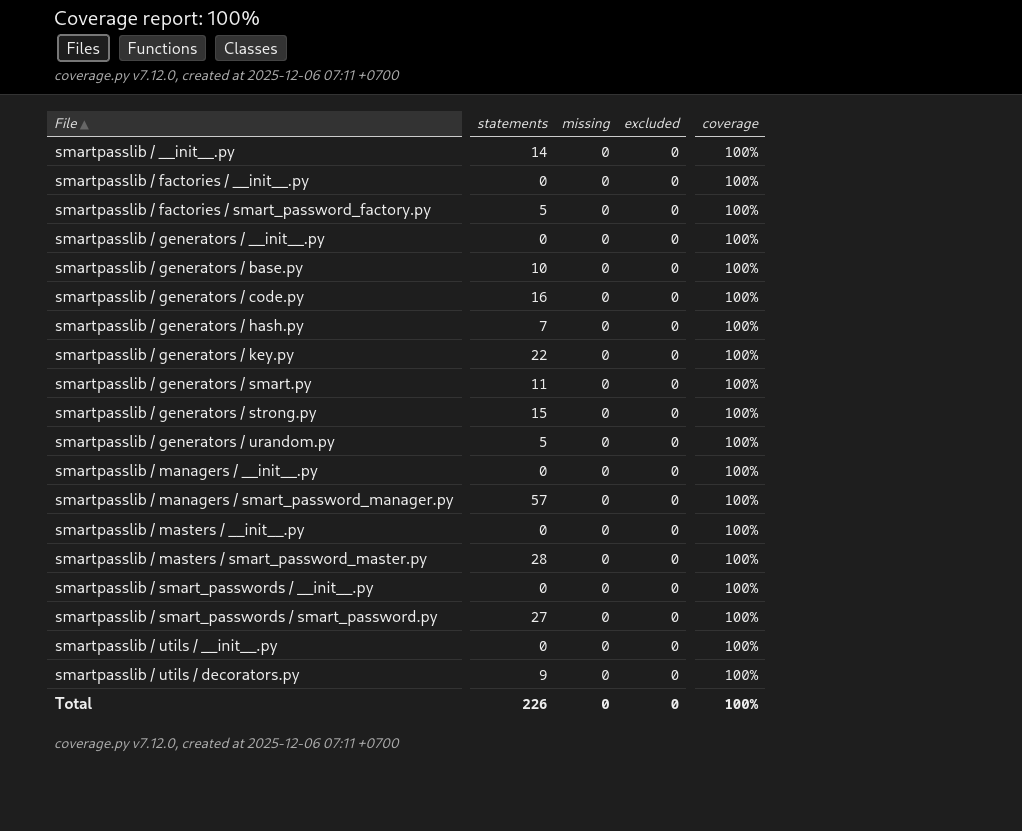
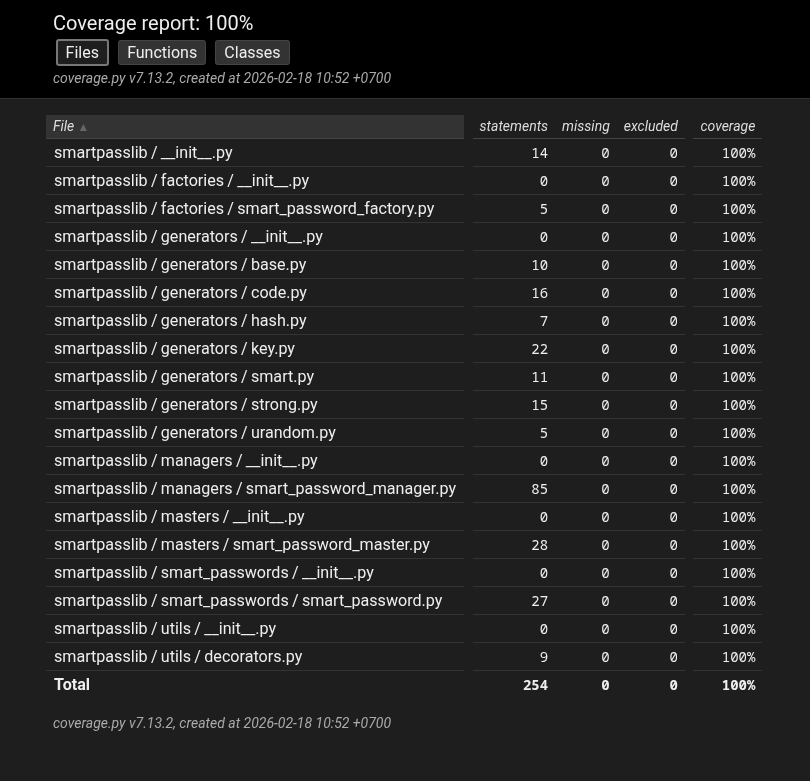
test: add 100% coverage
- Add tests for default config path (~/.config/...)
- Add tests for legacy file migration from ~/.cases.json
- Add tests for migration error handling
- Fix KeyError message format in delete test
- Achieve 100% test coverage

Changed region(s): [[0.0, 0.0, 1.0, 0.9526], [0.8642, 0.1536, 0.9259, 0.8912], [0.4938, 0.8297, 0.5556, 0.8604]]

diff --git a/tests/test_managers/test_manager.py b/tests/test_managers/test_manager.py
@@ -1,4 +1,7 @@
 # Copyright (©) 2026, Alexander Suvorov. All rights reserved.
+import json
+from pathlib import Path
+
 import pytest
 
 from smartpasslib import SmartPassword
@@ -36,7 +39,7 @@ class TestSmartPasswordManager:
 
     def test_delete_nonexistent_password(self, temp_file):
         manager = SmartPasswordManager(filename=temp_file)
-        with pytest.raises(KeyError, match="Public Key not found."):
+        with pytest.raises(KeyError, match="Public key not found: nonexistent_key"):
             manager.delete_smart_password("nonexistent_key")
 
     def test_get_nonexistent_password(self, temp_file):
@@ -98,11 +101,11 @@ class TestSmartPasswordManager:
         assert manager.update_smart_password(test_password.public_key, description="Updated Description") is True
         updated = manager.get_smart_password(test_password.public_key)
         assert updated.description == "Updated Description"
-        assert updated.length == test_password.length  # Length unchanged
+        assert updated.length == test_password.length
 
         assert manager.update_smart_password(test_password.public_key, length=20) is True
         updated = manager.get_smart_password(test_password.public_key)
-        assert updated.description == "Updated Description"  # Description unchanged
+        assert updated.description == "Updated Description"
         assert updated.length == 20
 
         assert manager.update_smart_password(
@@ -178,4 +181,149 @@ class TestSmartPasswordManager:
         )
 
         updated = manager.get_smart_password(test_password.public_key)
-        assert updated.public_key == original_public_key  # Public key unchanged
+        assert updated.public_key == original_public_key
+
+    def test_file_path_property(self, temp_file):
+        manager = SmartPasswordManager(filename=temp_file)
+        assert manager.file_path == temp_file
+
+    def test_generate_base_password_static(self):
+        pwd1 = SmartPasswordManager.generate_base_password()
+        pwd2 = SmartPasswordManager.generate_base_password(20)
+        assert len(pwd1) == 12
+        assert len(pwd2) == 20
+        assert isinstance(pwd1, str)
+        assert isinstance(pwd2, str)
+
+    def test_generate_smart_password_class_method(self, test_secret):
+        pwd1 = SmartPasswordManager.generate_smart_password(test_secret)
+        pwd2 = SmartPasswordManager.generate_smart_password(test_secret, 20)
+        assert len(pwd1) == 12
+        assert len(pwd2) == 20
+        assert isinstance(pwd1, str)
+        assert isinstance(pwd2, str)
+
+    def test_generate_public_key_class_method(self, test_secret):
+        key = SmartPasswordManager.generate_public_key(test_secret)
+        assert isinstance(key, str)
+        assert len(key) > 0
+
+    def test_check_public_key_class_method(self, test_secret):
+        key = SmartPasswordManager.generate_public_key(test_secret)
+        assert SmartPasswordManager.check_public_key(test_secret, key) is True
+        assert SmartPasswordManager.check_public_key("wrong", key) is False
+
+    def test_passwords_property_returns_dict(self, temp_file, test_password):
+        manager = SmartPasswordManager(filename=temp_file)
+        manager.add_smart_password(test_password)
+        assert isinstance(manager.passwords, dict)
+        assert len(manager.passwords) == 1
+
+    def test_load_data_corrupted_file(self, temp_file):
+        with open(temp_file, 'w') as f:
+            f.write("this is not json")
+
+        import warnings
+        with warnings.catch_warnings():
+            warnings.simplefilter("ignore")
+            manager = SmartPasswordManager(filename=temp_file)
+
+        assert manager.password_count == 0
+        assert isinstance(manager.smart_passwords, dict)
+
+    def test_write_data_permission_error(self, temp_file, monkeypatch, test_password):
+
+        def mock_open(*args, **kwargs):
+            raise IOError("Permission denied")
+
+        monkeypatch.setattr("builtins.open", mock_open)
+
+        import warnings
+        with warnings.catch_warnings():
+            warnings.simplefilter("ignore")
+            manager = SmartPasswordManager(filename=temp_file)
+            manager.add_smart_password(test_password)
+
+        assert test_password.public_key in manager.smart_passwords
+        assert manager.get_smart_password(test_password.public_key) == test_password
+
+    def test_default_config_path_creation(self, mock_home):
+        manager = SmartPasswordManager()
+        expected_path = str(mock_home / '.config' / 'smart_password_manager' / 'passwords.json')
+        assert manager.file_path == expected_path
+        assert Path(expected_path).parent.exists()
+
+    def test_migration_from_old_file(self, mock_home):
+        old_file = mock_home / '.cases.json'
+        test_data = {
+            "test_key": {
+                "public_key": "test_key",
+                "description": "test_service",
+                "length": 12
+            }
+        }
+        old_file.write_text(json.dumps(test_data))
+
+        manager = SmartPasswordManager()
+
+        new_file = Path(manager.file_path)
+        assert new_file.exists()
+
+        assert (mock_home / '.cases.json.bak').exists()
+        assert not old_file.exists()
+
+        assert len(manager.smart_passwords) == 1
+        assert "test_key" in manager.smart_passwords
+
+    def test_no_migration_if_new_exists(self, mock_home):
+        new_file = mock_home / '.config' / 'smart_password_manager' / 'passwords.json'
+        new_file.parent.mkdir(parents=True, exist_ok=True)
+        new_data = {
+            "new_key": {
+                "public_key": "new_key",
+                "description": "new_service",
+                "length": 16
+            }
+        }
+        new_file.write_text(json.dumps(new_data))
+
+        old_file = mock_home / '.cases.json'
+        old_file.write_text(json.dumps({"old": "data"}))
+
+        manager = SmartPasswordManager()
+
+        assert len(manager.smart_passwords) == 1
+        assert "new_key" in manager.smart_passwords
+        assert manager.smart_passwords["new_key"].description == "new_service"
+
+        assert old_file.exists()
+        assert not (mock_home / '.cases.json.bak').exists()
+
+    def test_migration_exception_handling(self, mock_home, monkeypatch):
+        old_file = mock_home / '.cases.json'
+        old_file.touch()
+
+        def mock_copy(*args, **kwargs):
+            raise Exception("Mock copy error")
+
+        monkeypatch.setattr("shutil.copy2", mock_copy)
+
+        import io
+        import sys
+        captured = io.StringIO()
+        sys.stderr = captured
+
+        manager = SmartPasswordManager()
+
+        sys.stderr = sys.__stderr__
+
+        assert manager.file_path == str(mock_home / '.config' / 'smart_password_manager' / 'passwords.json')
+        assert old_file.exists()
+
+    def test_default_path_with_existing_dir(self, mock_home):
+        config_dir = mock_home / '.config' / 'smart_password_manager'
+        config_dir.mkdir(parents=True, exist_ok=True)
+
+        manager = SmartPasswordManager()
+        assert manager.file_path == str(config_dir / 'passwords.json')
+        assert config_dir.exists()

diff --git a/tests/conftest.py b/tests/conftest.py
@@ -1,4 +1,6 @@
 # Copyright (©) 2026, Alexander Suvorov. All rights reserved.
+from pathlib import Path
+
 import pytest
 import os
 from smartpasslib.smart_passwords.smart_password import SmartPassword
@@ -35,3 +37,10 @@ def temp_file(tmp_path):
     yield str(test_file)
     if os.path.exists(test_file):
         os.remove(test_file)
+
+@pytest.fixture
+def mock_home(monkeypatch, tmp_path):
+    mock_home_dir = tmp_path / "fake_home"
+    mock_home_dir.mkdir(parents=True, exist_ok=True)
+    monkeypatch.setattr(Path, "home", lambda: mock_home_dir)
+    return mock_home_dir
